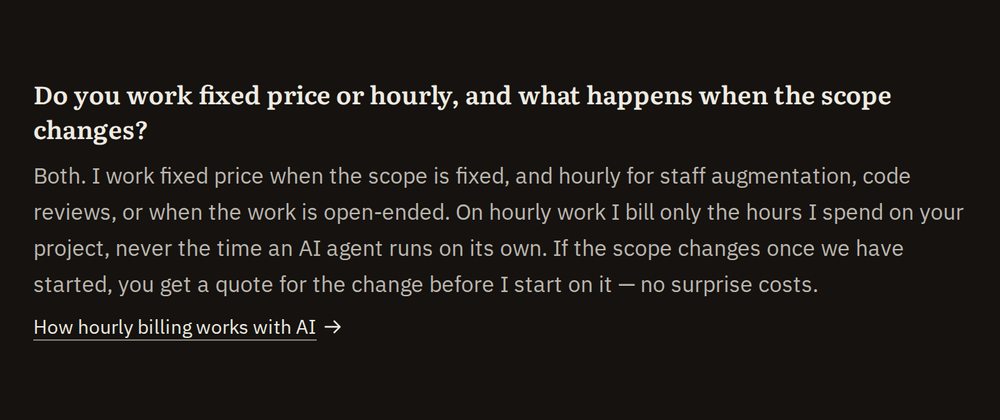
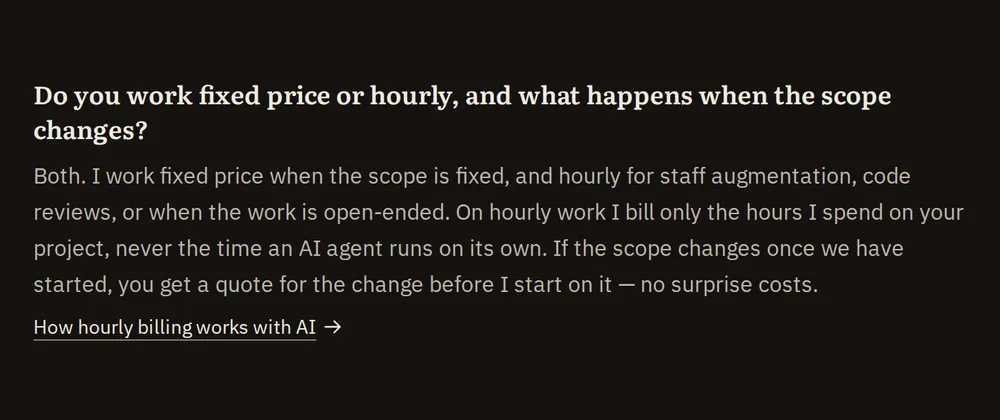
fix(blog): add cover sizes and WebP covers to five posts (#648)

diff --git a/test/tools.test.ts b/test/tools.test.ts
@@ -220,7 +220,7 @@ siteTest(
   "each tool with posts links them, and each of those posts links its tool page back",
   async (site) => {
     const withPosts = tools.filter((t) => t.posts?.length)
-    assertEquals(withPosts.length, 8)
+    assertEquals(withPosts.length, 9)
     for (const t of withPosts) {
       const page = await site.html(`/tools/${t.slug}`)
       for (const slug of t.posts!) {

diff --git a/content/blog/mcp-server-for-your-saas.md b/content/blog/mcp-server-for-your-saas.md
@@ -9,6 +9,7 @@ tldr:
 intro: "When a customer asks whether their AI assistant can use your product, someone has to answer. This post is for that founder: what an MCP server exposes, how it stays safe, what went wrong in mine and what it takes to run, with caldav-mcp as the worked example."
 coverImage: "/img/blog/mcp-server-for-your-saas/cover.png"
 coverAlt: "A chat app named Assistant, connected to caldav-mcp with 13 tools, answering the question \"What's on my list for today?\" with two tool calls: query_events found 1 event and query_todos found 4 tasks, 1 overdue."
+coverSize: "1000x420"
 publishedAt: "2026-10-30"
 readTime: 9
 topic: "ai-mcp"

diff --git a/content/blog/fixed-price-or-hourly.md b/content/blog/fixed-price-or-hourly.md
@@ -9,6 +9,7 @@ tldr:
 intro: "Fixed price or hourly is one of the first questions when you hire a developer. My answer is one sentence, and this post explains it: how to tell which side your project is on, what happens when the scope changes, and which promises hold whichever way you pay."
 coverImage: "/img/blog/fixed-price-or-hourly/cover.png"
 coverAlt: "The pricing question on my How I work page: \"Do you work fixed price or hourly, and what happens when the scope changes?\" with its answer and a link to how hourly billing works with AI."
+coverSize: "1000x420"
 publishedAt: "2026-10-30"
 readTime: 5
 topic: "founders"

diff --git a/content/blog/oko-homelab-dashboard.md b/content/blog/oko-homelab-dashboard.md
@@ -10,6 +10,7 @@ tldr:
 intro: "I keep one page with every service I self-host, and it should tell the truth about what is up. This post is for people who already run Gatus: what oko does, what it leaves out on purpose, and how to run it."
 coverImage: "/img/blog/oko-homelab-dashboard/cover.png"
 coverAlt: "The top of the oko demo dashboard: a search box with the hint to press slash to focus, the Home section at 5/5 healthy, and cards for Audiobooks, Git service and Photo library with their uptime."
+coverSize: "1000x420"
 publishedAt: "2026-10-30"
 readTime: 7
 topic: "self-hosting"

diff --git a/content/blog/deno-fmt-lint-ci-and-ai-agents.md b/content/blog/deno-fmt-lint-ci-and-ai-agents.md
@@ -10,6 +10,7 @@ tldr:
 intro: "In 2022 I wrote about Prettier. My TypeScript projects run on Deno now, and formatting needs no extra package, so here is the setup I use in them today: the config, the CI step that blocks a merge, and the rules that hold my AI agents to the same check."
 coverImage: "/img/blog/deno-fmt-lint-ci-and-ai-agents/cover.png"
 coverAlt: "Step logs of a Woodpecker CI run: deno fmt --check printed Checked 128 files, deno lint printed Checked 52 files, and deno task test follows."
+coverSize: "1000x420"
 publishedAt: "2026-10-30"
 readTime: 8
 topic: "ai-mcp"

diff --git a/content/blog/code-audit-ai-built-app.md b/content/blog/code-audit-ai-built-app.md
@@ -10,6 +10,7 @@ tldr:
 intro: "If you built your app with Lovable, Cursor or Claude Code, you may wonder what a code audit would actually look at. Instead of describing it, I ran my checklist on one of my own open-source repositories and wrote down what it found, line by line."
 coverImage: "/img/blog/code-audit-ai-built-app/cover.png"
 coverAlt: "The mutate function of mig's bookings store on GitHub, in the dark theme, with the comment that says it hands the caller a clone."
+coverSize: "1000x420"
 publishedAt: "2026-10-30"
 readTime: 9
 topic: "founders"
